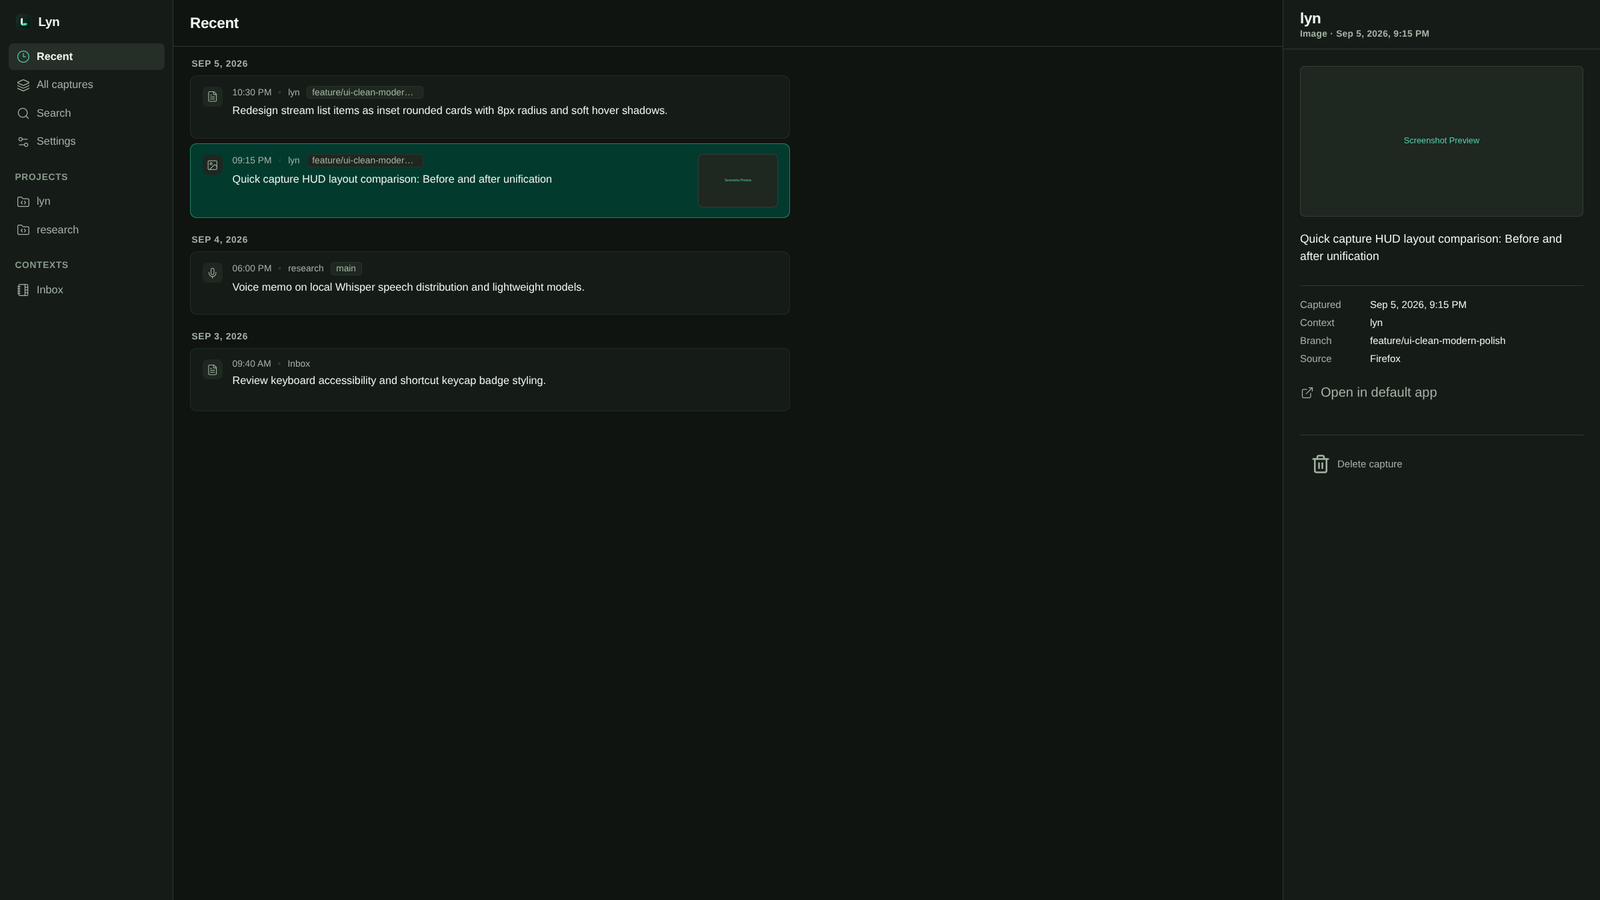
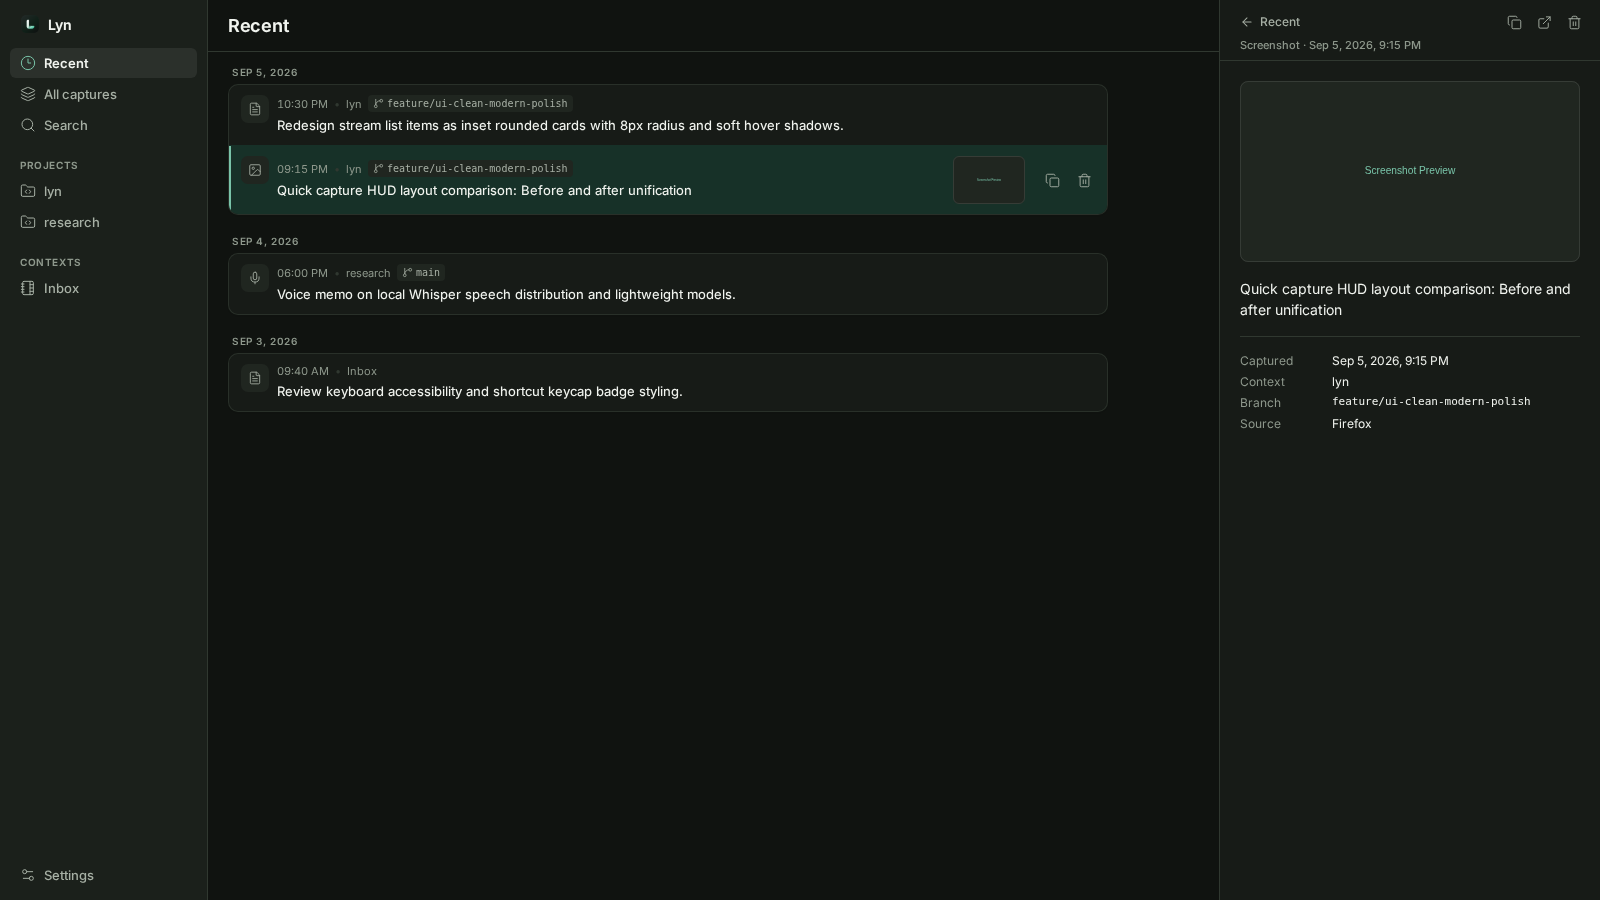
docs(readme): reflect the refreshed UI
- Replace the quick-capture and Library screenshots with the current
  interface (context chips, grouped day list, compact inspector).
- Document Ctrl+K search, day grouping, search filters, the startup
  switch and language setting, and the renamed Settings → Integrations
  section.
- Point the visual-identity link at the stylesheet tokens and contrast
  test, and credit the bundled Inter typeface (OFL 1.1).

diff --git a/README.md b/README.md
@@ -72,7 +72,7 @@ pnpm install
 pnpm tauri dev
 ```
 
-Default shortcut: `Ctrl+Shift+Space` opens quick capture. The editor, Kitty and browser integrations suggest `Alt+L`; their existing user bindings can take precedence. Keep the global shortcut different. The Library window is the main shell.
+Default shortcut: `Ctrl+Shift+Space` opens quick capture. The editor, Kitty and browser integrations suggest `Alt+L`; their existing user bindings can take precedence. Keep the global shortcut different. The Library window is the main shell; inside it, `Ctrl+K` opens or refocuses search.
 
 ### Build release packages
 
@@ -113,12 +113,12 @@ cargo test --manifest-path src-tauri/Cargo.toml
 
 | Area | What you get |
 |---|---|
-| Quick capture | Text, screenshot paste, voice note; Enter saves and dismisses |
+| Quick capture | Text, screenshot paste, voice note; the detected project, branch and source app show above the draft; Enter saves and dismisses |
 | Context | Live sessions + saved contexts; ambiguity never guesses |
-| Library | Newest captures first, project timelines, detail inspection, media playback and capture deletion |
+| Library | Newest captures first, grouped by day (Today, Yesterday, then dates), project timelines with a branch filter, detail inspection with copy/open/delete, media playback |
 | Projects | Remove an empty project from the Library without deleting its folder |
-| Search | Bounded local FTS over note bodies and user-visible captions |
-| Settings | Shortcut, theme, provider tie-break order, 1-click integrations installer, optional local speech model, installed app version |
+| Search | Bounded local FTS over note bodies and user-visible captions, with context, branch, date and type filters; `Ctrl+K` from anywhere in the Library |
+| Settings | Shortcut, start at login, provider tie-break order, 1-click integrations installer, light/dark/system theme, English/French, optional local speech model, installed app version |
 
 ## Optional local speech
 
@@ -126,7 +126,7 @@ Settings can install a **CPU-only Parakeet v3 Q8** package (approximately 942 MB
 
 ## Context providers (Linux X11)
 
-Providers are optional. Configure them in **Settings → Integrations & Context Providers**, or follow the manual guides below. Browser setup also requires loading the companion extension in your browser.
+Providers are optional. Configure them in **Settings → Integrations**, or follow the manual guides below. Browser setup also requires loading the companion extension in your browser.
 
 - **VS Code & Cursor:** [`integrations/vscode/`](integrations/vscode/README.md) — 1-click install in Lyn Settings, or `pnpm provider:vscode:package` → install `/tmp/lyn-context-provider.vsix` via `code` or `cursor`
 - **Browser (Chrome, Chromium, Brave, Edge, Firefox):** [`integrations/browser/`](integrations/browser/README.md) — 1-click register in Lyn Settings, or `pnpm provider:browser:install` → load unpacked extension in browser
@@ -142,12 +142,14 @@ Providers never send terminal output, editor buffers, or agent chat into Lyn.
 - [Project overview](docs/project_overview.md)
 - [Requirements](docs/01_requirements_prd.md) · [SRS](docs/02_requirements_srs.md)
 - [Architecture](docs/05_architecture.md) · [IPC](docs/06_api_specification.md)
-- [Visual identity](docs/07_visual_identity.md)
+- [Visual identity](docs/07_visual_identity.md) (the shipped palette and type tokens live in `src/styles.css`; `src/visual-accessibility.test.ts` checks their contrast)
 - [HEX (Anomaly) research note](docs/research_hex_anomaly.md)
 - [Contributor guidelines](AGENTS.md)
 
 ## License
 
 SPDX: [MIT](LICENSE)
+
+The interface bundles the Inter typeface (SIL Open Font License 1.1) through `@fontsource-variable/inter`; it is served locally and never fetched from the network.
 
 The optional parakeet.cpp runtime is MIT-licensed. The Parakeet v3 model is CC BY 4.0; its installed package retains NVIDIA/conversion attribution and the license text.
